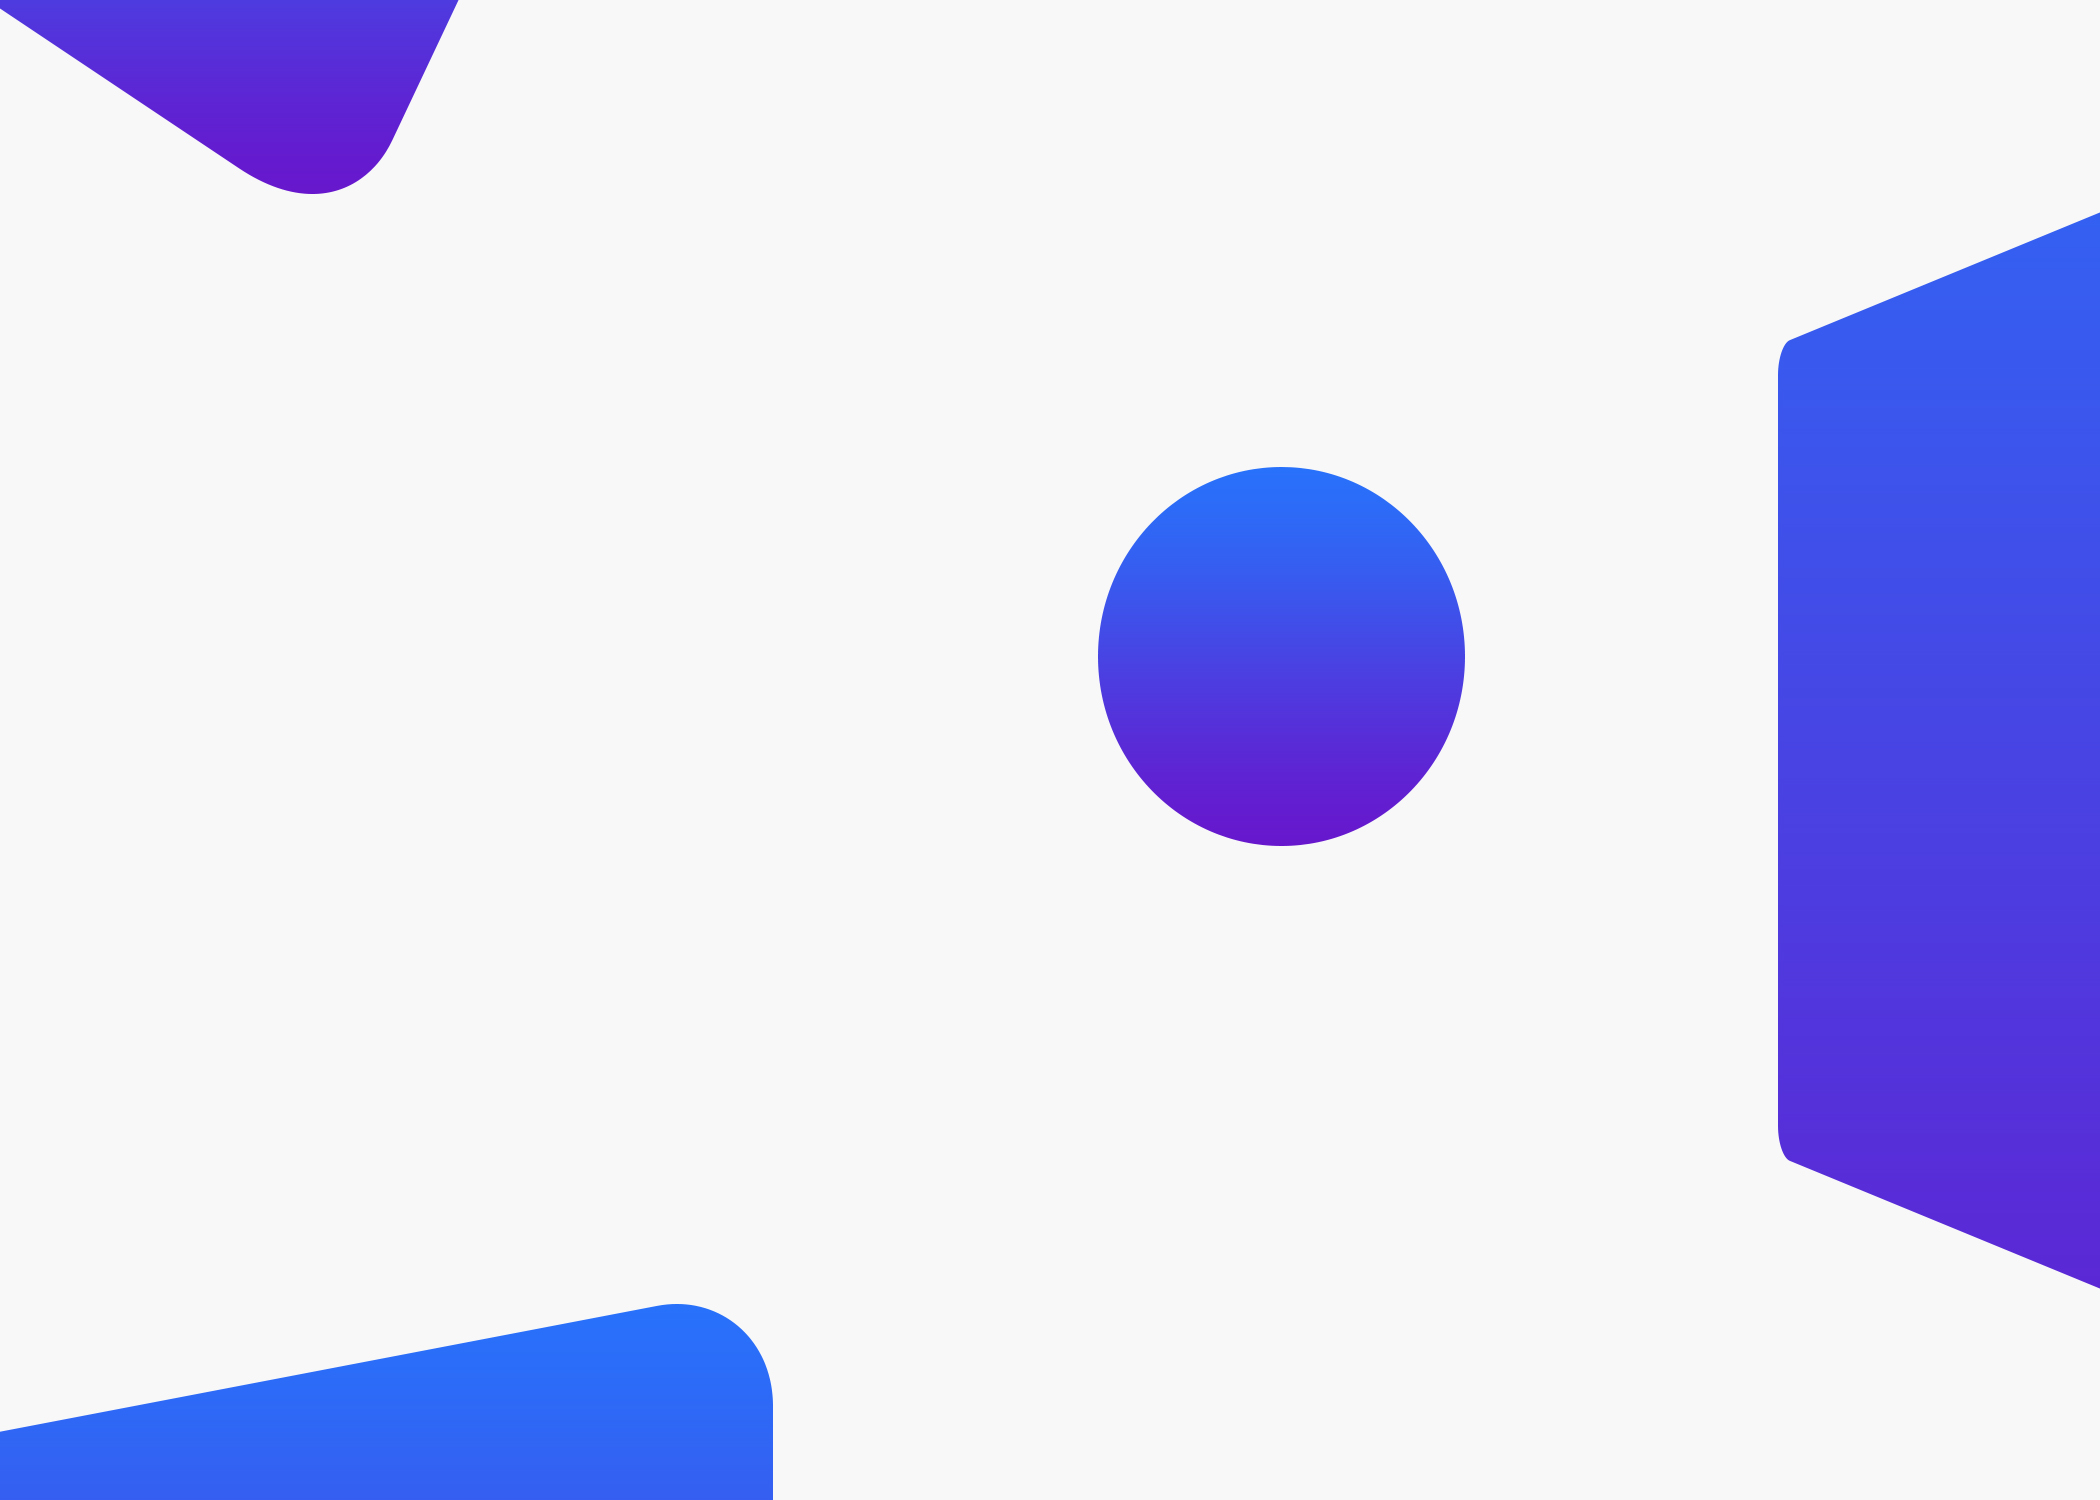
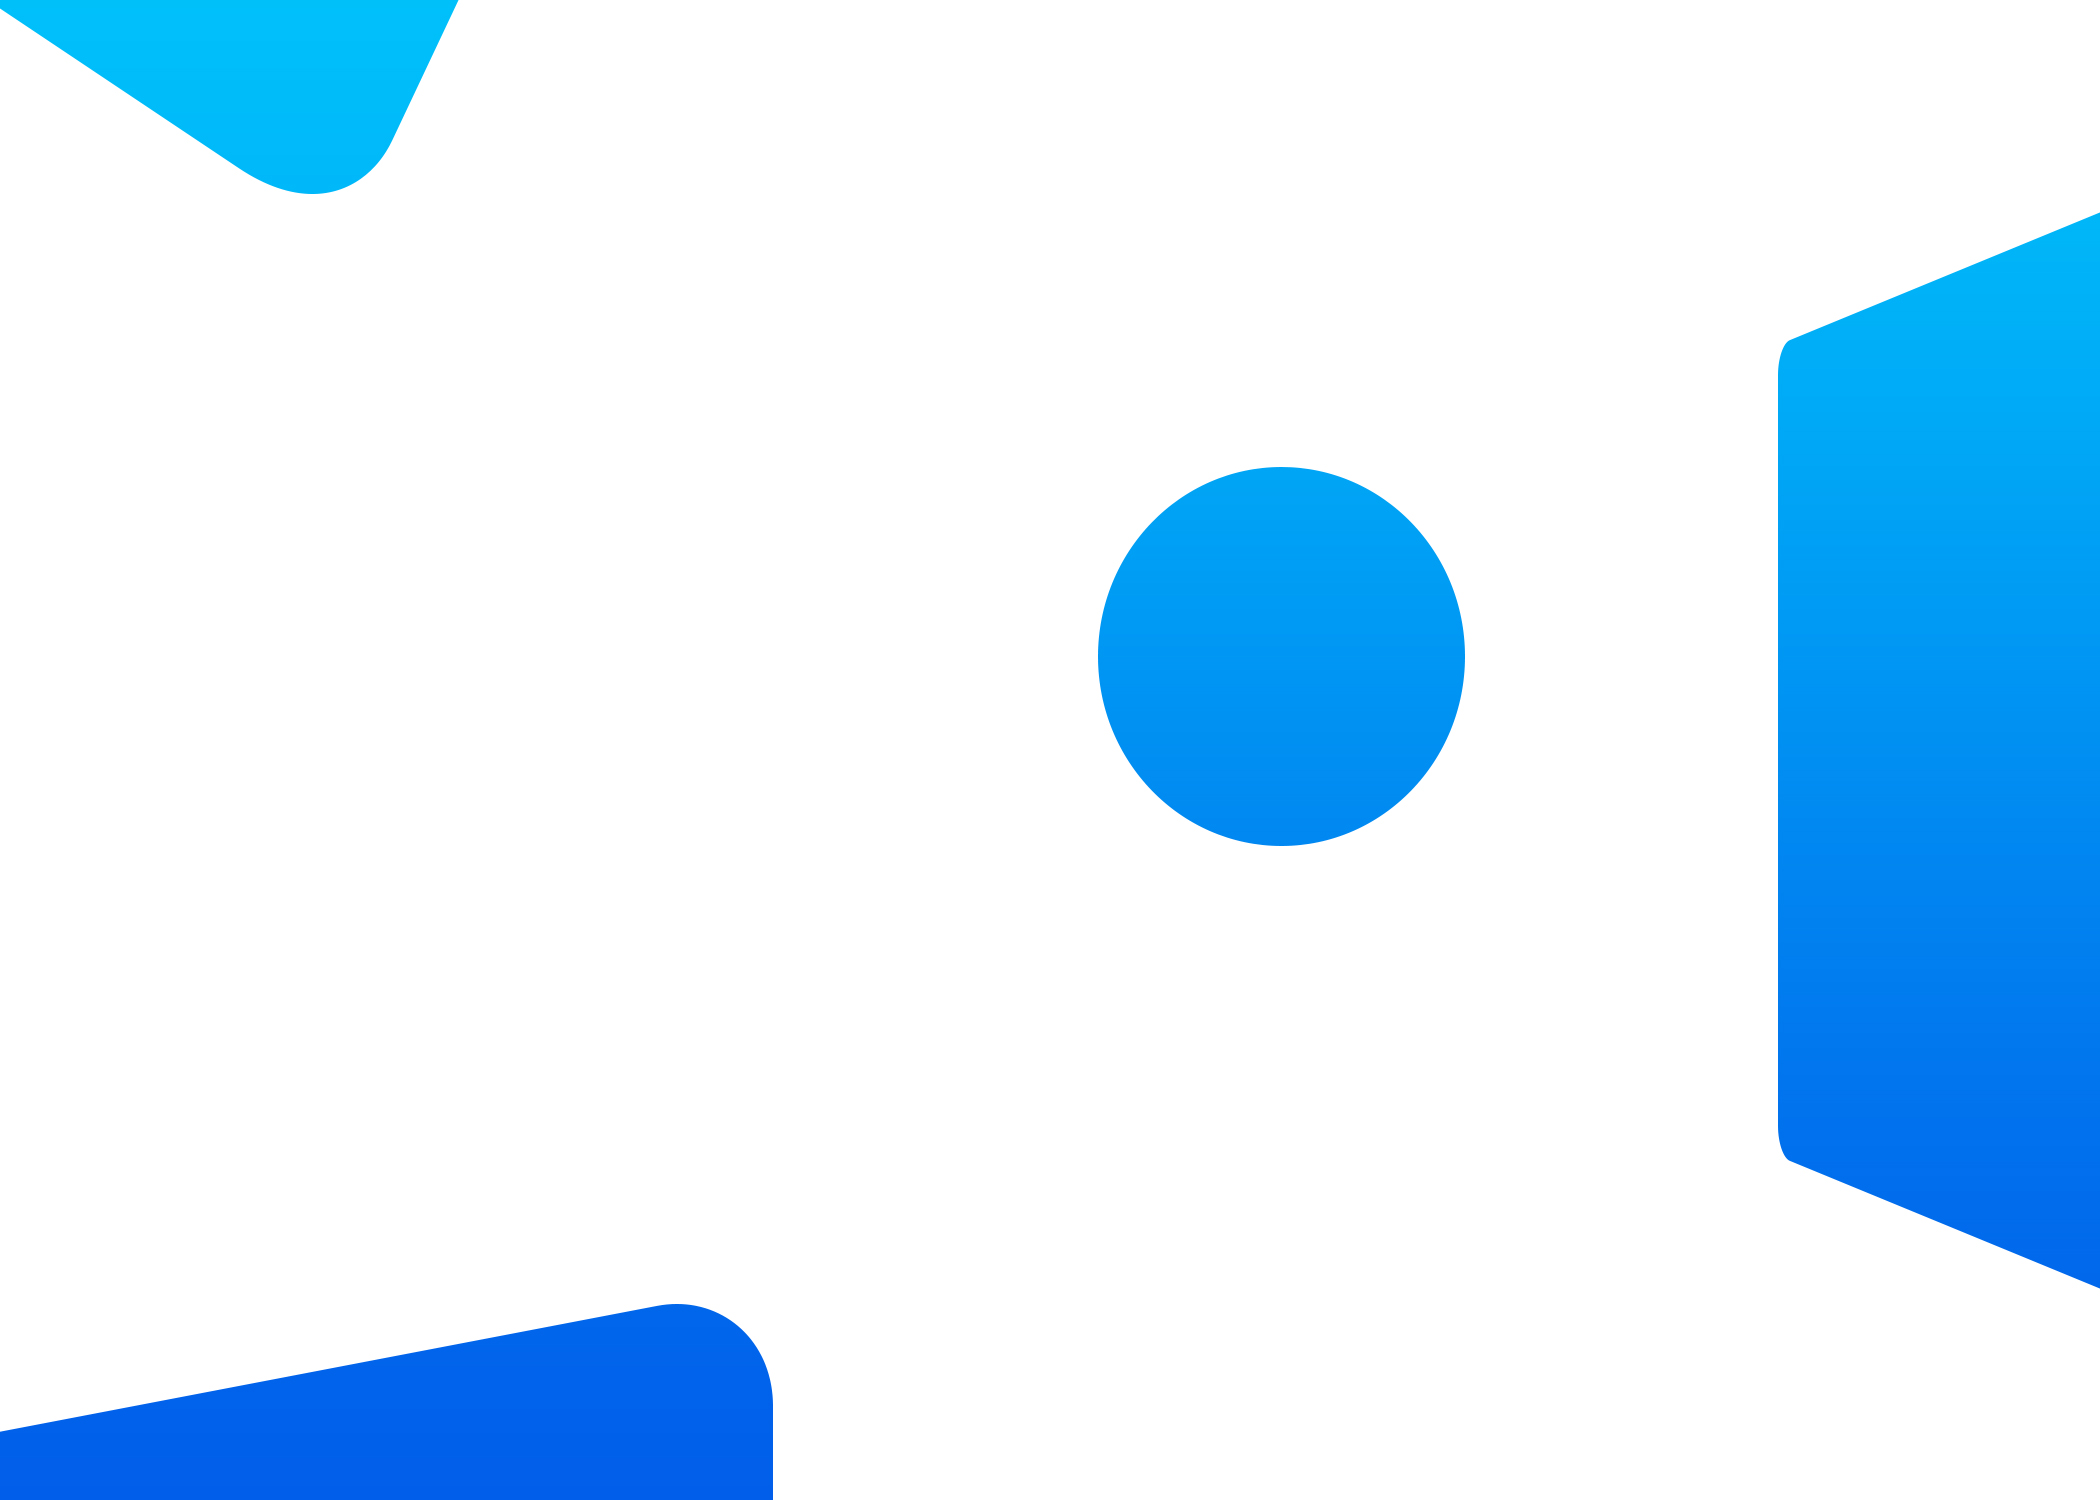
NO_TICKET Changed background image

diff --git a/src/components/home/HomeBenefits.jsx b/src/components/home/HomeBenefits.jsx
@@ -22,17 +22,9 @@ const HomeBenefits = (props) => {
           </Grid.Column>
         </Grid.Row>
         <Grid.Row columns={2}>
+          <Grid.Column textAlign="center"></Grid.Column>
           <Grid.Column textAlign="center">
-            <Icon name="database" color="white" inverted size="big" />
-            <BenefitsDescription style={{ color: "white" }}>
-              <FormattedMessage
-                id="home.benefits.database"
-                defaultMessage="All your data is encrypted and safely stored"
-              />
-            </BenefitsDescription>
-          </Grid.Column>
-          <Grid.Column textAlign="center">
-            <Icon name="home" color="violet" size="big" />
+            <Icon name="home" color="blue" size="big" />
             <BenefitsDescription>
               <FormattedMessage
                 id="home.benefits.home"
@@ -43,7 +35,7 @@ const HomeBenefits = (props) => {
         </Grid.Row>
         <Grid.Row columns={2}>
           <Grid.Column textAlign="center">
-            <Icon name="building" color="violet" size="big" />
+            <Icon name="building" color="blue" size="big" />
             <BenefitsDescription>
               <FormattedMessage
                 id="home.benefits.bank"
@@ -52,7 +44,7 @@ const HomeBenefits = (props) => {
             </BenefitsDescription>
           </Grid.Column>
           <Grid.Column textAlign="center">
-            <Icon name="envelope" color="violet" size="big" />
+            <Icon name="envelope" color="blue" size="big" />
             <BenefitsDescription>
               <FormattedMessage
                 id="home.benefits.envelope"

diff --git a/src/components/utils/StyledComponents.jsx b/src/components/utils/StyledComponents.jsx
@@ -1,6 +1,7 @@
 import styled from "styled-components";
 import Background from "../../assets/images/background.jpg"
-import UtilBackground from "../../assets/images/utilbackground.jpg"
+import UtilBackground from "../../assets/images/utilsbackground.jpg"
+import vector from "../../assets/images/vector.jpg"
 
 export const Bottom = styled.div`
   height: 100px;
@@ -24,7 +25,7 @@ color: #9c9c9c;
 
 &:hover {
   background-color: #dbdbdb;
-  border-right: 2px solid blue;
+  border-right: 2px solid #4984c4;
   cursor: pointer;
 }
 
@@ -34,7 +35,7 @@ color: #9c9c9c;
 `
 
 export const HomeSection = styled.div`
-  background-image: url(${Background});
+  background-image: url(${vector});
   background-size: 115% 90%;
   background-repeat: no-repeat;
   position: absolute;
@@ -113,9 +114,9 @@ export const BenefitsDialog = styled.div`
   height: 30vh;
   positon: relative;
   margin: 0 auto;
-  border: 2px solid #5c27d5;
+  border: 1px solid #4984c4;
   border-radius: 10px;
-  background-image: url(${Background});
+  background-image: url(${UtilBackground});
   box-shadow: 0px 0px 1px 0px rgba(0,0,0,0.75);
 `
 
@@ -156,7 +157,7 @@ export const BenefitsTitle = styled.div`
 export const BenefitsDescription = styled.div`
   font-family: 'Bree Serif', serif;
   font-size: 15px;
-  color: #5c27d5;
+  color: #4984c4;
   margin-left: 55px;
   margin-top: 10px;
 `

diff --git a/src/components/storage/StorageDashboard.jsx b/src/components/storage/StorageDashboard.jsx
@@ -23,7 +23,7 @@ const WaultsDashboard = (props) => {
         </Grid.Row>
         <Grid.Row columns={2}>
           <Grid.Column centered textAlign="center">
-            <Card centered fluid color="violet" style={{ marginLeft: "100px" }}>
+            <Card centered fluid color="blue" style={{ marginLeft: "100px" }}>
               <Card.Content>
                 <TransactionCountDialog>
                   You can use our storage to save your valuable data without any
@@ -48,7 +48,7 @@ const WaultsDashboard = (props) => {
               <Card.Content>
                 <Button
                   animated="vertical"
-                  color="violet"
+                  color="blue"
                   circular
                   onClick={() => setShow(true)}
                 >
@@ -77,7 +77,7 @@ const WaultsDashboard = (props) => {
           <StorageTable setActionShow={setActionShow} setTitle={setTitle} />
         </Grid.Row>
         <Grid.Row>
-          <Button color="violet" circular>
+          <Button color="blue" circular>
             View all files
           </Button>
         </Grid.Row>

diff --git a/src/components/waults/WaultsDashboard.jsx b/src/components/waults/WaultsDashboard.jsx
@@ -25,7 +25,7 @@ const WaultsDashboard = (props) => {
         </Grid.Row>
         <Grid.Row columns={2}>
           <Grid.Column centered textAlign="center">
-            <Card centered fluid color="violet" style={{ marginLeft: "100px" }}>
+            <Card centered fluid color="blue" style={{ marginLeft: "100px" }}>
               <Card.Content>
                 <TransactionCountDialog>
                   <FormattedMessage
@@ -58,7 +58,7 @@ const WaultsDashboard = (props) => {
               <Card.Content>
                 <Button
                   animated="vertical"
-                  color="violet"
+                  color="blue"
                   circular
                   onClick={() => setShow(true)}
                 >
@@ -102,7 +102,7 @@ const WaultsDashboard = (props) => {
           />
         </Grid.Row>
         <Grid.Row>
-          <Button color="violet" circular>
+          <Button color="blue" circular>
             <FormattedMessage
               id="wault.view"
               defaultMessage="View all waults"

diff --git a/src/pages/Home.jsx b/src/pages/Home.jsx
@@ -112,12 +112,7 @@ const Home = (props) => {
                   defaultMessage="How much money do you want to deposit?"
                 />
               }
-              action={
-                <FormattedMessage
-                  id="home.dialog.deposit.action.deposit"
-                  defaultMessage="Deposit"
-                />
-              }
+              action="Deposit"
               ethUser={props.eth}
             />
           ) : selectedForm === "withdraw" ? (
@@ -131,12 +126,7 @@ const Home = (props) => {
                   defaultMessage="How much money do you want to withdraw?"
                 />
               }
-              action={
-                <FormattedMessage
-                  id="home.dialog.deposit.action.withdraw"
-                  defaultMessage="Withdraw"
-                />
-              }
+              action="Withdraw"
               ethUser={props.eth}
             />
           ) : (

diff --git a/public/configuration.js b/public/configuration.js
@@ -6,7 +6,7 @@ window.ENVIRONMENT = {
   YOUTUBE_API_KEY: "AIzaSyC2LAZSa6L07XeSroBC_g28ow6zyuj2UlE",
   ETHEREUM_IMAGE: "https://www.goodfreephotos.com/cache/other-photos/bitcoin-ethereum-and-world-coin.jpg",
   MOBILE_IMAGE: "https://images.unsplash.com/photo-1551650975-87deedd944c3?ixlib=rb-1.2.1&ixid=eyJhcHBfaWQiOjEyMDd9&auto=format&fit=crop&w=967&q=80",
-  MODAL_IMAGE: "https://wallpapercave.com/wp/wp6547097.jpg",
+  MODAL_IMAGE: "https://images.unsplash.com/photo-1579403124614-197f69d8187b?ixlib=rb-1.2.1&ixid=eyJhcHBfaWQiOjEyMDd9&auto=format&fit=crop&w=1300&q=80",
   MODAL_IMAGE2: "https://images.unsplash.com/photo-1534972195531-d756b9bfa9f2?ixlib=rb-1.2.1&ixid=eyJhcHBfaWQiOjEyMDd9&auto=format&fit=crop&w=2250&q=80",
   TRANSACTIONS_IMAGE: "https://cdn.pixabay.com/photo/2018/01/13/18/55/leather-3080553_1280.jpg",
   WAULT_IMAGE: "https://cdn.pixabay.com/photo/2013/07/12/18/56/vault-154023_1280.png"

diff --git a/src/components/waults/WaultsForm.jsx b/src/components/waults/WaultsForm.jsx
@@ -51,7 +51,7 @@ const WaultsForm = (props) => {
           })
           .then(() => {
             setTimeout(() => {
-              toast.success(
+              toast.info(
                 <FormattedMessage
                   id="wault.create.succesfully"
                   defaultMessage="Your wault was succesfully created!"
@@ -181,7 +181,7 @@ const WaultsForm = (props) => {
             </Form.Row>
             <Button
               floated="right"
-              color="violet"
+              color="blue"
               basic
               type="submit"
               disabled={isSubmitting}

diff --git a/src/components/transactions/TransactionForm.jsx b/src/components/transactions/TransactionForm.jsx
@@ -52,7 +52,7 @@ const TransactionForm = (props) => {
           })
           .then(() => {
             setTimeout(() => {
-              toast.success(
+              toast.info(
                 <FormattedMessage
                   id="transactions.succesfully"
                   defaultMessage="Your money was succesfully transfered!"
@@ -162,7 +162,7 @@ const TransactionForm = (props) => {
             <Button
               animated
               floated="right"
-              color="violet"
+              color="blue"
               circular
               basic
               type="submit"

diff --git a/src/components/utils/Modal.jsx b/src/components/utils/Modal.jsx
@@ -21,18 +21,12 @@ const UserModal = (props) => {
   const handleClick = () => {
     setSending(true);
 
-    props.action ===
-    (
-      <FormattedMessage
-        id="home.dialog.withdraw"
-        defaultMessage="How much money do you want to withdraw?"
-      />
-    )
+    props.action === "Withdraw"
       ? withDrawMoney(props.ethUser, value)
       : depositMoney(props.ethUser, value);
 
     setTimeout(() => {
-      toast.success(
+      toast.info(
         <FormattedMessage
           id="transactions.succesfully"
           defaultMessage="Your money was succesfully transfered!"

diff --git a/src/components/home/AvailableMoney.jsx b/src/components/home/AvailableMoney.jsx
@@ -9,6 +9,7 @@ const AvailableMoney = (props) => {
     <Card
       centered
       textAlign="center"
+      color="blue"
       style={{ marginTop: "5vh", marginRight: "12vw" }}
     >
       <Card.Content>
@@ -21,7 +22,7 @@ const AvailableMoney = (props) => {
       </Card.Content>
       <Card.Content>{props.eth["balance"]},00 ETH</Card.Content>
       <Card.Content>
-        <Button.Group color="violet">
+        <Button.Group color="blue">
           <Button style={{ fontFamily: "'Lato', serif" }}>
             <FormattedMessage
               id="home.transaction"

diff --git a/src/components/waults/WaultsActionForm.jsx b/src/components/waults/WaultsActionForm.jsx
@@ -47,7 +47,7 @@ const WaultsForm = (props) => {
       })
       .then(() => {
         setTimeout(() => {
-          toast.success(
+          toast.info(
             <FormattedMessage
               id="wault.succesfully"
               defaultMessage="Your money was succesfully transfered to your wault!"
@@ -240,7 +240,7 @@ const WaultsForm = (props) => {
 
             <Button
               floated="right"
-              color="violet"
+              color="blue"
               circular
               basic
               type="submit"

diff --git a/src/components/transactions/TransactionDashboard.jsx b/src/components/transactions/TransactionDashboard.jsx
@@ -46,7 +46,7 @@ const TransactionDashboard = (props) => {
         </Grid.Row>
         <Grid.Row>
           <Button
-            color="violet"
+            color="blue"
             style={{ fontFamily: "'Lato', serif" }}
             circular
           >
@@ -69,7 +69,7 @@ const TransactionDashboard = (props) => {
         </Grid.Row>
         <Grid.Row>
           <Button
-            color="violet"
+            color="blue"
             style={{ fontFamily: "'Lato', serif" }}
             circular
           >
